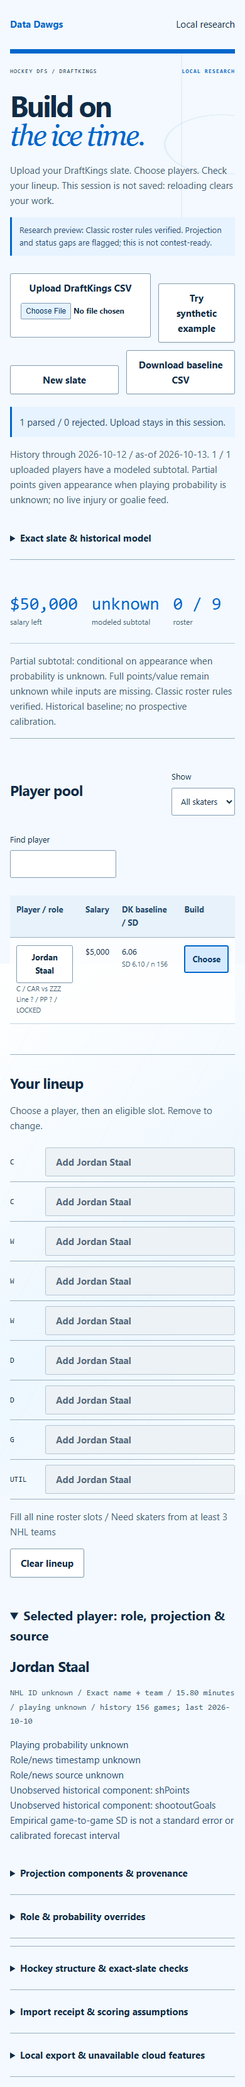
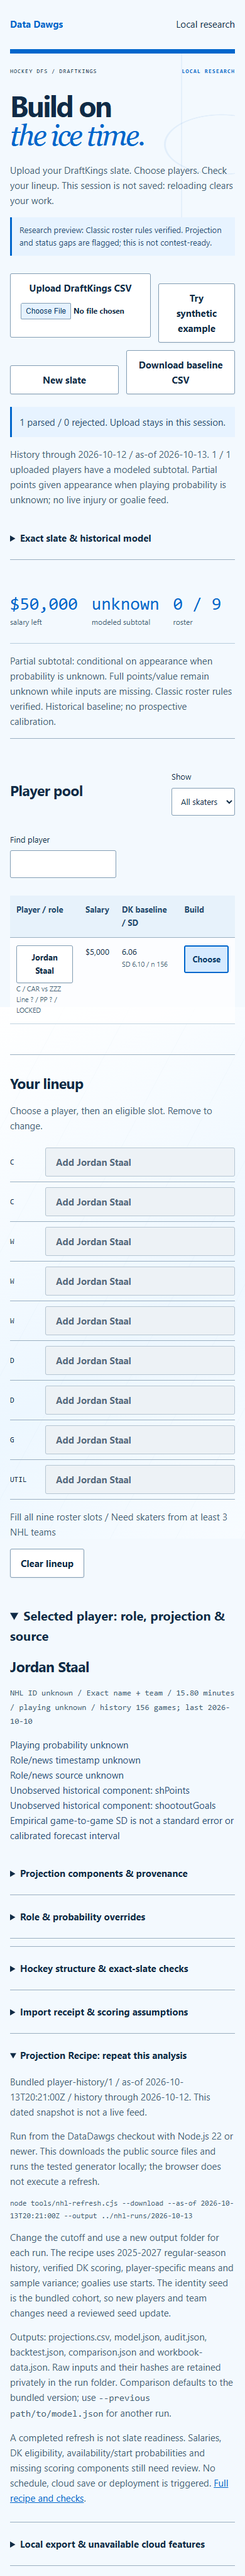
Add reproducible NHL Projection Recipe and audited local refresh

Changed region(s): [[0.0308, 0.0, 0.9538, 1.0], [0.8923, 0.7459, 0.9231, 0.777]]

diff --git a/docs/previews/nhl-offline-preview.html b/docs/previews/nhl-offline-preview.html
@@ -33,6 +33,7 @@ input[type=file]::file-selector-button{background:#e5f2ff;color:#103e6e;border:1
 <details id="inspect" hidden><summary>Selected player: role, projection &amp; source</summary><h2 id="playerName"></h2><p id="playerMeta"></p><p id="flags" class="warning"></p><details><summary>Projection components &amp; provenance</summary><div id="components"></div><p id="events"></p><p id="historical"></p></details><details><summary>Role &amp; probability overrides</summary><p>Editable assumptions, not a live lineup feed. Blank means unknown. Probabilities are fractions from 0 to 1.</p><div class="formgrid" id="overrides"></div><div class="toolbar"><button id="apply">Apply timestamped override</button><button id="resetOverride" class="secondary">Clear override</button></div></details></details>
 <details><summary>Hockey structure &amp; exact-slate checks</summary><div id="checks"></div><p>Shared line/PP units describe dependence; they do not quantify correlation, win rate or contest fit. A goalie facing your skater creates opposing interests.</p></details>
 <details><summary>Import receipt &amp; scoring assumptions</summary><pre id="receipt"></pre><pre id="rules"></pre><p>The historical baseline averages each player's observed DK game scores and actual threshold bonuses over two completed seasons plus current pre-cutoff games. SD and variance describe game-to-game partial scores, not forecast certainty. Goalies use starts only, including pulled starts; wins and overtime losses are observed. Missing short-handed/shootout and goalie offensive components remain flagged. A manual skater minutes adjustment is a capped linear approximation; default is the unadjusted player mean.</p></details></div>
+<details id="projectionRecipe"><summary>Projection Recipe: repeat this analysis</summary><p id="recipeFreshness"></p><p>Run from the DataDawgs checkout with Node.js 22 or newer. This downloads the public source files and runs the tested generator locally; the browser does not execute a refresh.</p><pre><code>node tools/nhl-refresh.cjs --download --as-of 2026-10-13T20:21:00Z --output ../nhl-runs/2026-10-13</code></pre><p>Change the cutoff and use a new output folder for each run. The recipe uses 2025-2027 regular-season history, verified DK scoring, player-specific means and sample variance; goalies use starts. The identity seed is the bundled cohort, so new players and team changes need a reviewed seed update.</p><p>Outputs: projections.csv, model.json, audit.json, backtest.json, comparison.json and workbook-data.json. Raw inputs and their hashes are retained privately in the run folder. Comparison defaults to the bundled version; use <code>--previous path/to/model.json</code> for another run.</p><p>A completed refresh is not slate readiness. Salaries, DK eligibility, availability/start probabilities and missing scoring components still need review. No schedule, cloud save or deployment is triggered. <a href="docs/nhl-projection-recipe.md">Full recipe and checks</a>.</p></details>
 <details><summary>Local export &amp; unavailable cloud features</summary><p>Cloud save/load, authenticated history refresh and AI workspace access are disabled for this release. Work exists only in this browser session and disappears on reload. Download JSON for your records; this version does not restore draft exports.</p><div class="toolbar"><button id="save" disabled>Save privately unavailable</button><button id="load" class="secondary" disabled>Load saved unavailable</button><button id="list" class="secondary" disabled>Find saved unavailable</button><button id="download" class="secondary">Download draft JSON</button></div><p id="cloud" role="status">Local research only. No account requests are made.</p></details>
 </main><script>/* NHL research core. Shared browser/Worker implementation; no network, identity or storage. */
 (function(root){'use strict';
@@ -191,6 +192,7 @@ let state={version:1,platform:'dk',players:[],roster:Array(9).fill(null),slate:{
 const say=s=>$('message').textContent=s,projection=p=>state.model?N.project({...p,date:state.slate.date||p.date},state.model):{points:null,subtotal:null,components:{},flags:['No historical model loaded']};
 const fields=[['minutes','Expected minutes',100],['playProb','Playing / start probability',1],['line','Even-strength line'],['pp','Power-play unit'],['status','Goalie / availability status'],['source','Role/news source'],['winProb','Goalie win probability, given appearance',1],['shutoutProb','Goalie shutout probability, given appearance',1],['otLossProb','Goalie overtime-loss probability',1],['shPoints','Expected shorthanded points',10],['ppPoints','Expected power-play points',10],['shootoutGoals','Expected shootout goals',1]];
 function render(){
+ $('recipeFreshness').textContent=bundled?'Bundled '+(bundled.baselineVersion||bundled.version)+' / as-of '+bundled.asOf+' / history through '+(bundled.receipt?.trainingMaxDate||'unknown')+'. This dated snapshot is not a live feed.':'No bundled model available.';
  $('work').hidden=!state.players.length;$('platform').value=state.platform;$('platform').disabled=state.players.length>0;$('slateId').value=state.slate.id;$('slateDate').value=state.slate.date;$('games').value=state.slate.games.join('\n');
  const result=N.legality(state.players,state.roster,state.platform,state.slate),ps=state.roster.filter(i=>i!==null).map(i=>projection(state.players[i])),subtotal=ps.reduce((s,p)=>s+(p.subtotal??0),0);
  $('salary').textContent='$'+result.remaining.toLocaleString();$('count').textContent=ps.length+' / 9';$('points').textContent=ps.length&&ps.every(p=>p.subtotal!==null)?fmt(subtotal):'unknown';$('totalNote').textContent=(state.synthetic?'SYNTHETIC EXAMPLE - not a real slate. ':'')+'Partial subtotal: conditional on appearance when probability is unknown. Full points/value remain unknown while inputs are missing. Classic roster rules verified. Historical baseline; no prospective calibration.';

diff --git a/dfs-nhl.html b/dfs-nhl.html
@@ -9,5 +9,6 @@
 <details id="inspect" hidden><summary>Selected player: role, projection &amp; source</summary><h2 id="playerName"></h2><p id="playerMeta"></p><p id="flags" class="warning"></p><details><summary>Projection components &amp; provenance</summary><div id="components"></div><p id="events"></p><p id="historical"></p></details><details><summary>Role &amp; probability overrides</summary><p>Editable assumptions, not a live lineup feed. Blank means unknown. Probabilities are fractions from 0 to 1.</p><div class="formgrid" id="overrides"></div><div class="toolbar"><button id="apply">Apply timestamped override</button><button id="resetOverride" class="secondary">Clear override</button></div></details></details>
 <details><summary>Hockey structure &amp; exact-slate checks</summary><div id="checks"></div><p>Shared line/PP units describe dependence; they do not quantify correlation, win rate or contest fit. A goalie facing your skater creates opposing interests.</p></details>
 <details><summary>Import receipt &amp; scoring assumptions</summary><pre id="receipt"></pre><pre id="rules"></pre><p>The historical baseline averages each player's observed DK game scores and actual threshold bonuses over two completed seasons plus current pre-cutoff games. SD and variance describe game-to-game partial scores, not forecast certainty. Goalies use starts only, including pulled starts; wins and overtime losses are observed. Missing short-handed/shootout and goalie offensive components remain flagged. A manual skater minutes adjustment is a capped linear approximation; default is the unadjusted player mean.</p></details></div>
+<details id="projectionRecipe"><summary>Projection Recipe: repeat this analysis</summary><p id="recipeFreshness"></p><p>Run from the DataDawgs checkout with Node.js 22 or newer. This downloads the public source files and runs the tested generator locally; the browser does not execute a refresh.</p><pre><code>node tools/nhl-refresh.cjs --download --as-of 2026-10-13T20:21:00Z --output ../nhl-runs/2026-10-13</code></pre><p>Change the cutoff and use a new output folder for each run. The recipe uses 2025-2027 regular-season history, verified DK scoring, player-specific means and sample variance; goalies use starts. The identity seed is the bundled cohort, so new players and team changes need a reviewed seed update.</p><p>Outputs: projections.csv, model.json, audit.json, backtest.json, comparison.json and workbook-data.json. Raw inputs and their hashes are retained privately in the run folder. Comparison defaults to the bundled version; use <code>--previous path/to/model.json</code> for another run.</p><p>A completed refresh is not slate readiness. Salaries, DK eligibility, availability/start probabilities and missing scoring components still need review. No schedule, cloud save or deployment is triggered. <a href="docs/nhl-projection-recipe.md">Full recipe and checks</a>.</p></details>
 <details><summary>Local export &amp; unavailable cloud features</summary><p>Cloud save/load, authenticated history refresh and AI workspace access are disabled for this release. Work exists only in this browser session and disappears on reload. Download JSON for your records; this version does not restore draft exports.</p><div class="toolbar"><button id="save" disabled>Save privately unavailable</button><button id="load" class="secondary" disabled>Load saved unavailable</button><button id="list" class="secondary" disabled>Find saved unavailable</button><button id="download" class="secondary">Download draft JSON</button></div><p id="cloud" role="status">Local research only. No account requests are made.</p></details>
 </main></body></html>

diff --git a/dfs-nhl-ui.js b/dfs-nhl-ui.js
@@ -5,6 +5,7 @@ let state={version:1,platform:'dk',players:[],roster:Array(9).fill(null),slate:{
 const say=s=>$('message').textContent=s,projection=p=>state.model?N.project({...p,date:state.slate.date||p.date},state.model):{points:null,subtotal:null,components:{},flags:['No historical model loaded']};
 const fields=[['minutes','Expected minutes',100],['playProb','Playing / start probability',1],['line','Even-strength line'],['pp','Power-play unit'],['status','Goalie / availability status'],['source','Role/news source'],['winProb','Goalie win probability, given appearance',1],['shutoutProb','Goalie shutout probability, given appearance',1],['otLossProb','Goalie overtime-loss probability',1],['shPoints','Expected shorthanded points',10],['ppPoints','Expected power-play points',10],['shootoutGoals','Expected shootout goals',1]];
 function render(){
+ $('recipeFreshness').textContent=bundled?'Bundled '+(bundled.baselineVersion||bundled.version)+' / as-of '+bundled.asOf+' / history through '+(bundled.receipt?.trainingMaxDate||'unknown')+'. This dated snapshot is not a live feed.':'No bundled model available.';
  $('work').hidden=!state.players.length;$('platform').value=state.platform;$('platform').disabled=state.players.length>0;$('slateId').value=state.slate.id;$('slateDate').value=state.slate.date;$('games').value=state.slate.games.join('\n');
  const result=N.legality(state.players,state.roster,state.platform,state.slate),ps=state.roster.filter(i=>i!==null).map(i=>projection(state.players[i])),subtotal=ps.reduce((s,p)=>s+(p.subtotal??0),0);
  $('salary').textContent='$'+result.remaining.toLocaleString();$('count').textContent=ps.length+' / 9';$('points').textContent=ps.length&&ps.every(p=>p.subtotal!==null)?fmt(subtotal):'unknown';$('totalNote').textContent=(state.synthetic?'SYNTHETIC EXAMPLE - not a real slate. ':'')+'Partial subtotal: conditional on appearance when probability is unknown. Full points/value remain unknown while inputs are missing. Classic roster rules verified. Historical baseline; no prospective calibration.';

diff --git a/sw.js b/sw.js
@@ -5,7 +5,7 @@
 // meant a JS-only fix never invalidated a phone's cache.
 // HTML is network-first (so deploys land immediately) with a cache fallback,
 // so a dead venue wifi can't take the draft down mid-auction.
-const VERSION = "56742c2111";
+const VERSION = "06a96f69b6";
 // A cache revision also invalidates old images when only precached artwork changes.
 const CACHE = "dd-" + VERSION + "-public-v3";
 

diff --git a/docs/nhl-projection-recipe.md b/docs/nhl-projection-recipe.md
@@ -1,0 +1,40 @@
+# NHL Projection Recipe
+
+Run this from the DataDawgs checkout using Node.js 22+. No account, API key or subscription is required. Output must be a new directory outside this public repository so raw source files stay private.
+
+```sh
+node tools/nhl-refresh.cjs --download --as-of 2026-10-13T20:21:00Z --output ../nhl-runs/2026-10-13
+```
+
+Choose a non-future ISO cutoff with timezone and a unique output folder. The entire cutoff UTC date is excluded. Download mode retrieves the twelve published CSVs listed in `nhl-projection-recipe.json`; season keys are ending years. No schedule or deployment is created. Network/source failures stop the command and leave the partial run for inspection; use a new directory for a retry. It never overwrites an earlier run.
+
+For deterministic offline reproduction, replace `--download` with `--inputs path/to/prior-run/inputs`, retain the same cutoff, and use `--seed path/to/prior-run/identity-seed.json --previous path/to/prior-run/previous-model.json`. Source URLs alone are mutable; the saved bytes and SHA-256 receipts establish exactly what was used. Compare output hashes in audit.json. The same inputs, seed, parameters and implementation must reproduce the same model and projection CSV.
+
+The default identity seed and prior comparison are the bundled model. `--seed` accepts a trusted model JSON/JS; `--previous` chooses a prior model JSON/JS. The seed supplies the included NHL IDs, full names and current-team labels. This is deliberately not automatic roster discovery: independently verify an updated seed before introducing new players or changed teams. The fixed 2025/2026/2027 window requires an explicit reviewed recipe and builder update when a new season begins.
+
+## What the command does
+
+1. Preserves raw input bytes, identity seed and previous model in the private run directory.
+2. Validates seasons, regular-season game type, completed-game evidence, cutoff, minutes, duplicates and goalie arithmetic/decisions using the existing pipeline.
+3. Calculates each player's observed-component DK mean, actual threshold bonuses, sample variance/SD and sample counts. Goalies use starts including pulled starts; relief is separate. No position shrinkage is applied.
+4. Runs the date-ordered backtest, withholding all same-day targets. At least ten prior observations are required. It compares player mean, prior-season mean with fallback, last-10/20, EWMA20 and capped recent-minutes adjustment; it does not tune or automatically promote a winner.
+5. Validates the model, including component-to-mean reconciliation and no post-cutoff history, then writes the outputs below.
+
+| Output | Purpose |
+|---|---|
+| projections.csv | Player means, SD, variance, sample counts, score sums/squared sums and component contributions; missing values remain blank |
+| model.json | Full machine-readable baseline, season splits, relief samples, missing-component coverage and attribution |
+| audit.json | Recipe/scoring/parameter snapshots, implementation hashes, input/output hashes, source freshness, validation counts and remaining missing inputs |
+| backtest.json | Chronological MAE, RMSE, bias and descriptive prior-P10/P90 interval coverage |
+| comparison.json | Prior/current sample count, mean and team per NHL ID; added/removed/uncomparable entries are explicit |
+| workbook-data.json | Model, backtest, comparison and limitations for audit-workbook creation; this is data, not an Excel workbook |
+
+Use `(ScoreSumSquares - ScoreSum^2 / SampleN) / (SampleN - 1)` to independently check sample variance when n > 1. SD is game-to-game variation, not standard error. Review changed sample counts, means, teams, exclusions, source dates and missing components before accepting a refreshed model. Source changes can include corrections to older games.
+
+## Refresh versus slate readiness
+
+A successful generator run does not establish a valid current slate. It supplies no salaries, verified DK slot eligibility, starting-goalie probability, injuries, line/PP assignments, ownership or contest simulations. SH points, shootout goals and absent goalie offensive stats remain unobserved; outputs are partial DK scores. The existing app supports separately timestamped overrides. Prior means and historical quantiles are not guaranteed forecasts.
+
+The browser displays the recipe and exports the bundled CSV; it does not run Node, fetch new history or save accounts. An authorized local AI assistant can execute this documented command and inspect the audit. No working cloud refresh API is advertised. Publication remains a separate reviewed code/data change and requires production authorization. Current deployment approval is blocked; this recipe does not circumvent it.
+
+Source attribution and statistical details: [NHL methodology](nhl-preview.md). Data publication follows the documented SportsDataverse CC BY 4.0 attribution route; raw run directories are not committed or republished.
